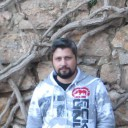
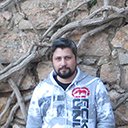
Update profile images

diff --git a/layouts/partials/author.html b/layouts/partials/author.html
@@ -1,5 +1,5 @@
 <aside class="author">
-  <img class="profile-image" src="{{ .Site.Params.avatar | absURL }}" alt="{{ .Site.Params.author }}" />
+  <img class="profile-image" src="{{ .Site.Params.avatar | relURL }}" srcset="{{ .Site.Params.avatar | relURL }} 1x, {{ .Site.Params.avatar2x | relURL }} 2x, {{ .Site.Params.avatar3x | relURL }} 3x" alt="{{ .Site.Params.author }}" />
   <p class="name">{{ .Site.Data.l10n.author.by }}
   <strong>{{ .Site.Params.author }}</strong></p>
   <p class="address">{{ .Site.Params.location }}</p>
